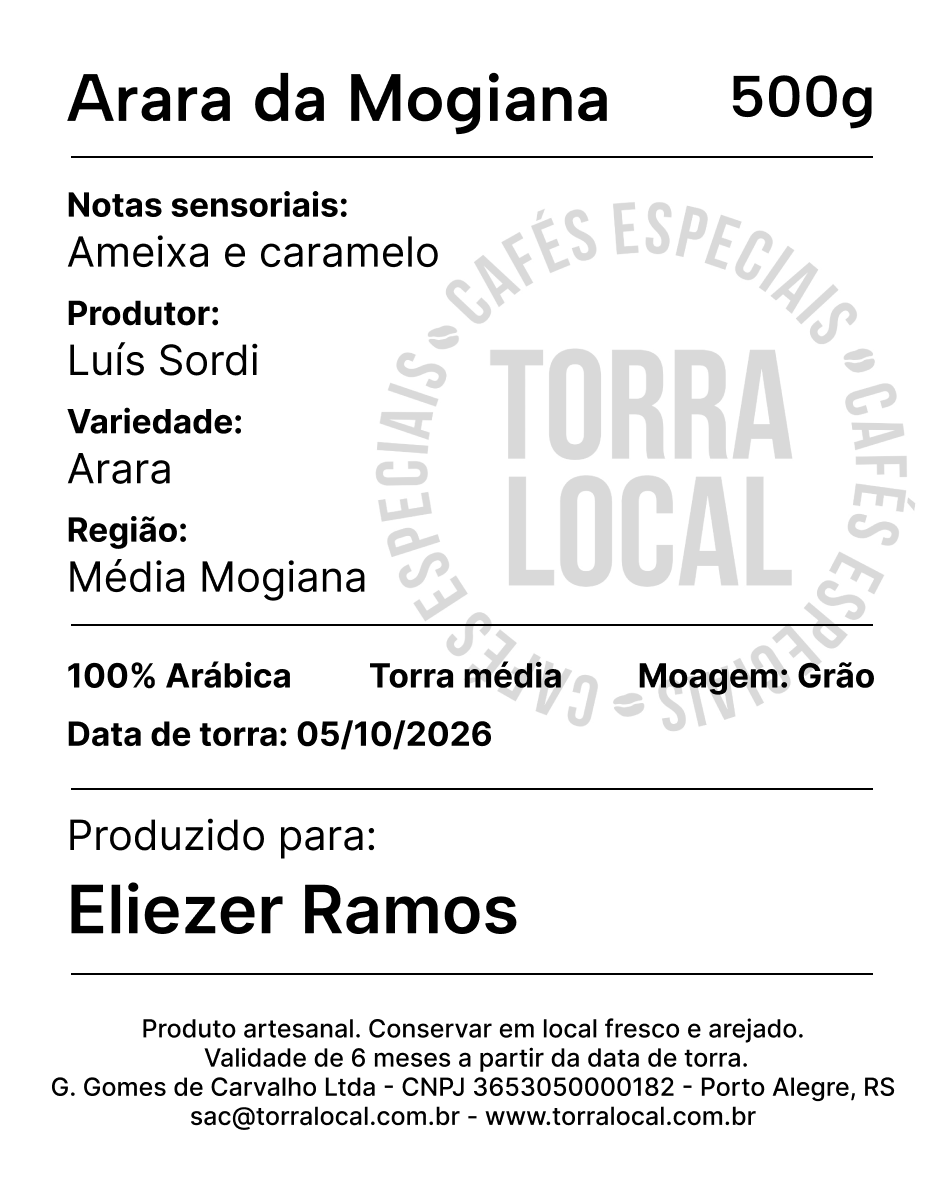
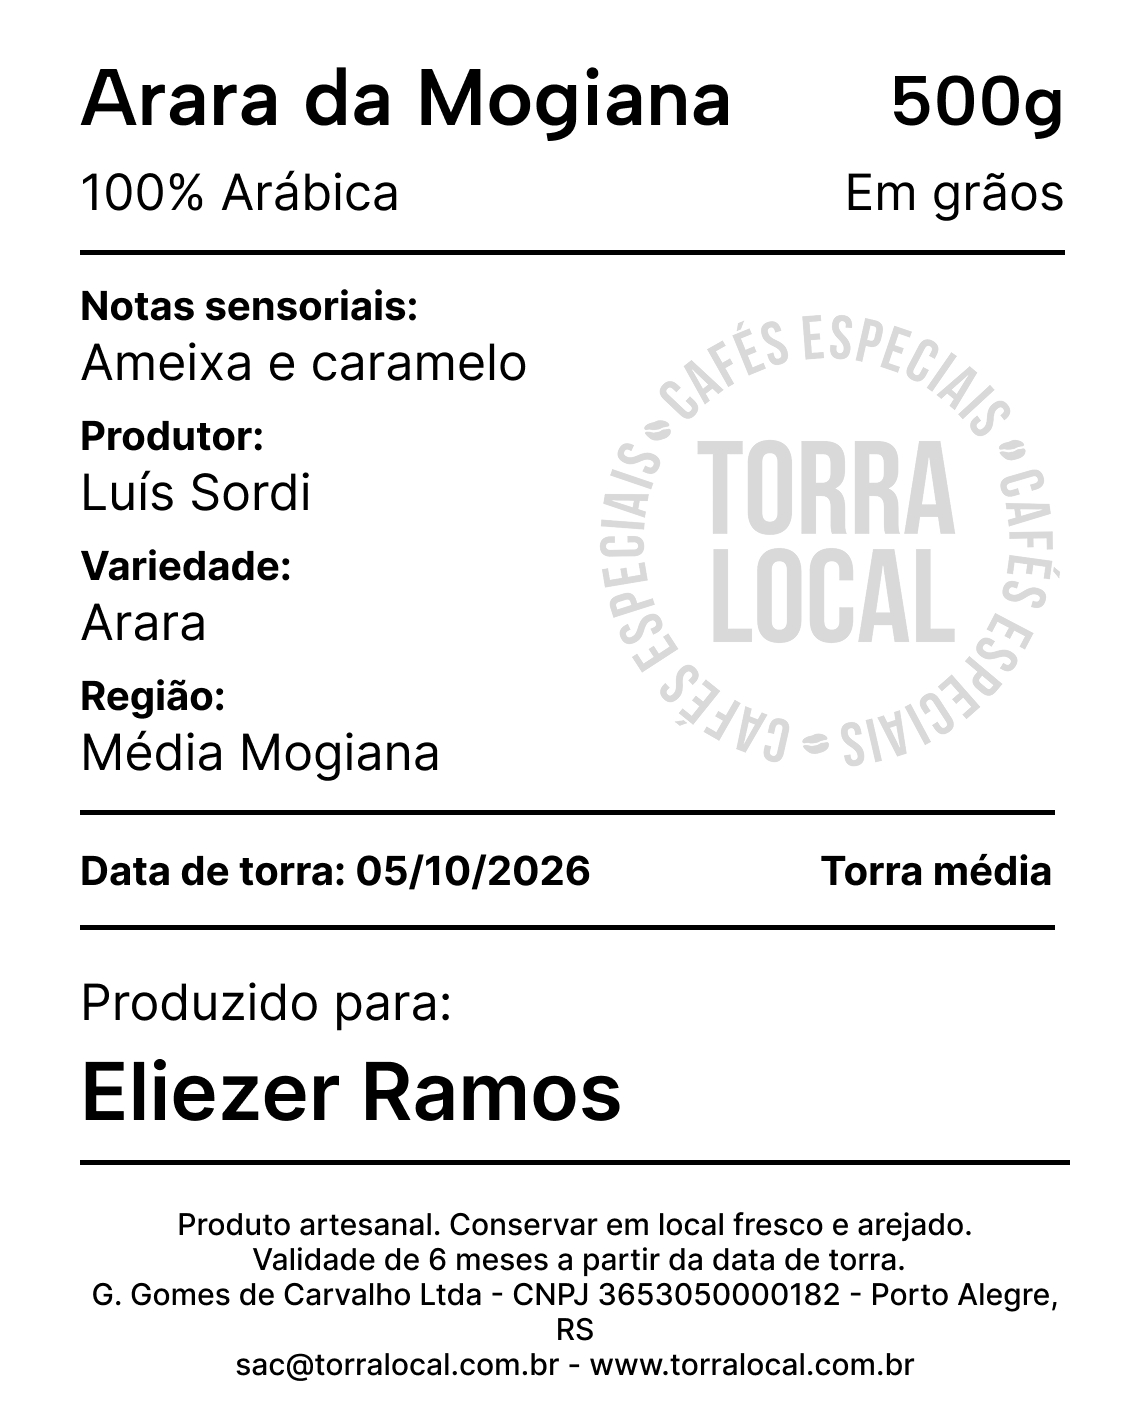
V1: novo design da etiqueta com moagem em destaque (Em grãos/Moído sob o título)
Layout reproduzido do novo modelo; pipeline de imagem (limiar, selo,
dither, 1bpp) inalterado. Selo menor e margens/linhas ajustadas.

Claude-Session: https://claude.ai/code/session_01EfTUypwSbpeeU6PbX6DgcH

diff --git a/src/label/draw.ts b/src/label/draw.ts
@@ -102,17 +102,17 @@ function fitTokens(
 }
 
 // ---------------------------------------------------------------- layout
-// Medidas tiradas do modelo de referência (imagem 945x1181 reduzida para 640x800 pontos, 203 dpi).
+// Medidas tiradas do modelo de referência (docs/modelo-do-rotulo.png, reduzido para 640x800 pontos, 203 dpi).
 
 const LEFT = 46;
-const RIGHT = 591;
+const RIGHT = 598;
 const CW = RIGHT - LEFT;
-const RULE4_Y = 659; // última linha: o rodapé fica fixo abaixo dela
-const RULE_H = 2;
+const RULE4_Y = 655; // última linha: o rodapé fica fixo abaixo dela
+const RULE_H = 3;
 
 // O nome do café (título) e o do cliente têm o mesmo tamanho e o mesmo peso (semibold), como no modelo.
 const NAME_SIZE = 43.8;
-const SIZE = { title: NAME_SIZE, peso: 38.8, label: 22.6, value: 28, row: 22.4, date: 22.9, produzido: 28.1, client: NAME_SIZE, footer: 17.1 };
+const SIZE = { title: NAME_SIZE, peso: 38.8, label: 22.6, value: 28, sub: 28, row: 22.9, produzido: 28.1, client: NAME_SIZE, footer: 17.1 };
 
 const FOOTER_LINES = [
   'Produto artesanal. Conservar em local fresco e arejado.',
@@ -120,7 +120,7 @@ const FOOTER_LINES = [
   'G. Gomes de Carvalho Ltda - CNPJ 36530500000182 - Porto Alegre, RS',
   'sac@torralocal.com.br - www.torralocal.com.br',
 ];
-const FOOTER_BASELINES = [702, 722, 742, 762];
+const FOOTER_BASELINES = [696.5, 716.5, 736.5, 756.5];
 const FOOTER_MAX_W = WIDTH - 2 * 24;
 
 type Op =
@@ -136,23 +136,24 @@ export function moagemNoRotulo(moagem: string): string {
 
 const lineText = (line: Token[]) => line.map((t) => t.text).join(' ');
 
-/** Posições dos itens da linha "espécie / torra / moagem": espaços iguais entre eles, de ponta a ponta. */
-function spreadRow(ctx: Ctx, items: string[], baseline: number): Op[] {
-  if (!items.length) return [];
-  let size = SIZE.row;
-  let widths: number[] = [];
-  for (; size >= 14; size -= 0.5) {
-    ctx.font = font(BOLD, size);
-    widths = items.map((t) => ctx.measureText(t).width);
-    if (items.length === 1 || (CW - widths.reduce((a, b) => a + b, 0)) / (items.length - 1) >= 14) break;
+/**
+ * Dois textos na mesma linha: um colado na margem esquerda e o outro na direita. Se não couberem juntos,
+ * a fonte diminui um pouco. Um texto vazio simplesmente não aparece.
+ */
+function duasPontas(ctx: Ctx, esq: string, dir: string, baseline: number, family: string, size: number): Op[] {
+  const a = esq.trim();
+  const b = dir.trim();
+  let tam = size;
+  if (a && b) {
+    for (; tam >= 14; tam -= 0.5) {
+      ctx.font = font(family, tam);
+      if (ctx.measureText(a).width + ctx.measureText(b).width + 16 <= CW) break;
+    }
   }
-  const gap = items.length > 1 ? (CW - widths.reduce((a, b) => a + b, 0)) / (items.length - 1) : 0;
-  let x = LEFT;
-  return items.map((t, i) => {
-    const op = text(t, BOLD, size, x, baseline);
-    x += widths[i] + gap;
-    return op;
-  });
+  const ops: Op[] = [];
+  if (a) ops.push(text(a, family, tam, LEFT, baseline));
+  if (b) ops.push(text(b, family, tam, RIGHT + 2, baseline, 'right')); // +2: a tinta termina na margem
+  return ops;
 }
 
 /** Calcula onde cada texto e linha vai ficar, com tudo reduzido na escala `s` (1 = tamanho do modelo). */
@@ -164,10 +165,16 @@ function plan(ctx: Ctx, d: DadosRotulo, s: number) {
   ctx.font = font(SEMI, SIZE.peso);
   const pesoW = ctx.measureText(d.peso).width;
   const title = fitTokens(ctx, tokenize([{ text: c.nome, family: SEMI }]), CW - pesoW - 24, SIZE.title, 22, 2, 30);
-  const base1 = 49 + 0.757 * title.size;
+  const base1 = 38 + 0.757 * title.size;
   title.lines.forEach((line, i) => ops.push(text(lineText(line), SEMI, title.size, LEFT, base1 + i * Math.round(title.size * 1.15))));
-  ops.push(text(d.peso, SEMI, SIZE.peso, RIGHT, base1 - 3.3, 'right')); // o peso fica um pouco acima da linha de base do título, como no modelo
-  const rule1 = base1 + (title.lines.length - 1) * Math.round(title.size * 1.15) + 24;
+  ops.push(text(d.peso, SEMI, SIZE.peso, RIGHT + 4, base1 - 3.3, 'right')); // o peso fica um pouco acima da linha de base do título, como no modelo
+  const tituloFim = base1 + (title.lines.length - 1) * Math.round(title.size * 1.15);
+
+  // Espécie (esquerda) e moagem (direita) logo abaixo do título: a moagem fica bem à vista
+  const temSub = c.especie.trim() !== '' || d.moagem.trim() !== '';
+  const subBase = tituloFim + 47.5;
+  ops.push(...duasPontas(ctx, c.especie, moagemNoRotulo(d.moagem), subBase, REG, SIZE.sub));
+  const rule1 = temSub ? subBase + 22.5 : tituloFim + 24;
   ops.push({ t: 'rule', y: rule1 });
 
   // Rótulo em negrito numa linha e valor na linha de baixo
@@ -177,7 +184,7 @@ function plan(ctx: Ctx, d: DadosRotulo, s: number) {
     ['Variedade:', c.variedade],
     ['Região:', c.regiao],
   ];
-  let lb = rule1 + 40.5 * s;
+  let lb = rule1 + 38.4 * s;
   let lastBase = rule1;
   for (const [label, value] of fields) {
     if (!value.trim()) continue;
@@ -193,14 +200,13 @@ function plan(ctx: Ctx, d: DadosRotulo, s: number) {
     }
     lb = lastBase + 38.7 * s;
   }
-  const rule2 = lastBase + 21.6 * s;
+  const rule2 = lastBase + 22.5 * s;
   ops.push({ t: 'rule', y: rule2 });
 
-  const rowBase = rule2 + 43.5 * s;
-  ops.push(...spreadRow(ctx, [c.especie, c.torra, moagemNoRotulo(d.moagem)].filter((t) => t.trim()), rowBase));
-  const dateBase = rowBase + 38.8 * s;
-  ops.push(text(`Data de torra: ${d.dataTorra}`, BOLD, SIZE.date * s, LEFT, dateBase));
-  const upperEnd = dateBase + 29.5 * s; // onde a linha 3 ficaria logo depois da data
+  // Data de torra (esquerda) e nível de torra (direita)
+  const dateBase = rule2 + 43.1 * s;
+  ops.push(...duasPontas(ctx, `Data de torra: ${d.dataTorra}`, c.torra, dateBase, BOLD, SIZE.row * s));
+  const upperEnd = dateBase + 21.8 * s; // onde a linha 3 ficaria logo depois da data
 
   // Bloco "Produzido para": ancorado na última linha, para o rodapé não se mexer
   const client = tokenize([{ text: d.cliente.trim(), family: SEMI }]);
@@ -208,9 +214,9 @@ function plan(ctx: Ctx, d: DadosRotulo, s: number) {
   const clh = Math.round(cfit.size * 1.2);
   const nLines = Math.max(1, cfit.lines.length);
   const clientSpan = 0.757 * cfit.size + (nLines - 1) * clh;
-  const lowerH = 42.1 * s + 22.8 * s + clientSpan + 27 * s;
+  const lowerH = 53.2 * s + 22.8 * s + clientSpan + 23.4 * s;
   const rule3 = RULE4_Y - lowerH;
-  const prodBase = rule3 + 42.1 * s;
+  const prodBase = rule3 + 53.2 * s;
   const lowerOps: Op[] = [{ t: 'rule', y: rule3 }, text('Produzido para:', REG, SIZE.produzido * s, LEFT, prodBase)];
   cfit.lines.forEach((line, i) => lowerOps.push(text(lineText(line), SEMI, cfit.size, LEFT, prodBase + 22.8 * s + 0.757 * cfit.size + i * clh)));
   return { ops: [...ops, ...lowerOps], overflow: upperEnd - rule3 };
@@ -229,21 +235,21 @@ function drawContent(ctx: Ctx, d: DadosRotulo): void {
   }
   for (const op of p.ops) {
     if (op.t === 'rule') {
-      ctx.fillRect(LEFT + 2, Math.round(op.y), CW - 2, RULE_H);
+      ctx.fillRect(LEFT, Math.round(op.y), CW, RULE_H);
     } else {
       ctx.font = font(op.family, op.size);
       ctx.textAlign = op.align;
       ctx.fillText(op.text, op.x, op.y);
     }
   }
-  ctx.fillRect(LEFT + 2, RULE4_Y, CW - 2, RULE_H);
+  ctx.fillRect(LEFT, RULE4_Y, CW, RULE_H);
 
   // Rodapé fixo
   ctx.textAlign = 'center';
   FOOTER_LINES.forEach((line, i) => {
     const { size } = fitTokens(ctx, [{ text: line, family: REG }], FOOTER_MAX_W, SIZE.footer, 11, 1);
     ctx.font = font(REG, size);
-    ctx.fillText(line, WIDTH / 2, FOOTER_BASELINES[i]);
+    ctx.fillText(line, (LEFT + RIGHT) / 2, FOOTER_BASELINES[i]);
   });
   ctx.textAlign = 'left';
 }
@@ -252,9 +258,9 @@ function drawContent(ctx: Ctx, d: DadosRotulo): void {
 
 const SEAL_DENSITY = 0.2; // fração de pontos pretos no fundo (cinza claro pontilhado)
 const DITHER_NOISE = 0.35; // ruído no limiar da difusão de erro (quebra padrões regulares)
-const SEAL_DIAMETER = 370;
-const SEAL_CX = 437;
-const SEAL_CY = 316;
+const SEAL_DIAMETER = 263;
+const SEAL_CX = 468;
+const SEAL_CY = 305;
 const INK_THRESHOLD = 170; // cinza abaixo do qual o ponto vira preto (mais alto = traço um pouco mais grosso)
 const HALO = 3; // área em branco ao redor do texto para o selo não atrapalhar a leitura
 

diff --git a/index.html b/index.html
@@ -439,41 +439,39 @@ label > span small { display: inline; margin-left: 4px; }
     return { size, lines };
   }
   var LEFT = 46;
-  var RIGHT = 591;
+  var RIGHT = 598;
   var CW = RIGHT - LEFT;
-  var RULE4_Y = 659;
-  var RULE_H = 2;
+  var RULE4_Y = 655;
+  var RULE_H = 3;
   var NAME_SIZE = 43.8;
-  var SIZE = { title: NAME_SIZE, peso: 38.8, label: 22.6, value: 28, row: 22.4, date: 22.9, produzido: 28.1, client: NAME_SIZE, footer: 17.1 };
+  var SIZE = { title: NAME_SIZE, peso: 38.8, label: 22.6, value: 28, sub: 28, row: 22.9, produzido: 28.1, client: NAME_SIZE, footer: 17.1 };
   var FOOTER_LINES = [
     "Produto artesanal. Conservar em local fresco e arejado.",
     "Validade de 6 meses a partir da data de torra.",
     "G. Gomes de Carvalho Ltda - CNPJ 36530500000182 - Porto Alegre, RS",
     "sac@torralocal.com.br - www.torralocal.com.br"
   ];
-  var FOOTER_BASELINES = [702, 722, 742, 762];
+  var FOOTER_BASELINES = [696.5, 716.5, 736.5, 756.5];
   var FOOTER_MAX_W = WIDTH - 2 * 24;
   var text = (text2, family, size, x, y, align = "left") => ({ t: "text", text: text2, family, size, x, y, align });
   function moagemNoRotulo(moagem) {
     return moagem === "Gr\xE3o" ? "Em gr\xE3os" : moagem;
   }
   var lineText = (line) => line.map((t) => t.text).join(" ");
-  function spreadRow(ctx, items, baseline) {
-    if (!items.length) return [];
-    let size = SIZE.row;
-    let widths = [];
-    for (; size >= 14; size -= 0.5) {
-      ctx.font = font(BOLD, size);
-      widths = items.map((t) => ctx.measureText(t).width);
-      if (items.length === 1 || (CW - widths.reduce((a, b) => a + b, 0)) / (items.length - 1) >= 14) break;
+  function duasPontas(ctx, esq, dir, baseline, family, size) {
+    const a = esq.trim();
+    const b = dir.trim();
+    let tam = size;
+    if (a && b) {
+      for (; tam >= 14; tam -= 0.5) {
+        ctx.font = font(family, tam);
+        if (ctx.measureText(a).width + ctx.measureText(b).width + 16 <= CW) break;
+      }
     }
-    const gap = items.length > 1 ? (CW - widths.reduce((a, b) => a + b, 0)) / (items.length - 1) : 0;
-    let x = LEFT;
-    return items.map((t, i) => {
-      const op = text(t, BOLD, size, x, baseline);
-      x += widths[i] + gap;
-      return op;
-    });
+    const ops = [];
+    if (a) ops.push(text(a, family, tam, LEFT, baseline));
+    if (b) ops.push(text(b, family, tam, RIGHT + 2, baseline, "right"));
+    return ops;
   }
   function plan(ctx, d, s) {
     const ops = [];
@@ -481,10 +479,14 @@ label > span small { display: inline; margin-left: 4px; }
     ctx.font = font(SEMI, SIZE.peso);
     const pesoW = ctx.measureText(d.peso).width;
     const title = fitTokens(ctx, tokenize([{ text: c.nome, family: SEMI }]), CW - pesoW - 24, SIZE.title, 22, 2, 30);
-    const base1 = 49 + 0.757 * title.size;
+    const base1 = 38 + 0.757 * title.size;
     title.lines.forEach((line, i) => ops.push(text(lineText(line), SEMI, title.size, LEFT, base1 + i * Math.round(title.size * 1.15))));
-    ops.push(text(d.peso, SEMI, SIZE.peso, RIGHT, base1 - 3.3, "right"));
-    const rule1 = base1 + (title.lines.length - 1) * Math.round(title.size * 1.15) + 24;
+    ops.push(text(d.peso, SEMI, SIZE.peso, RIGHT + 4, base1 - 3.3, "right"));
+    const tituloFim = base1 + (title.lines.length - 1) * Math.round(title.size * 1.15);
+    const temSub = c.especie.trim() !== "" || d.moagem.trim() !== "";
+    const subBase = tituloFim + 47.5;
+    ops.push(...duasPontas(ctx, c.especie, moagemNoRotulo(d.moagem), subBase, REG, SIZE.sub));
+    const rule1 = temSub ? subBase + 22.5 : tituloFim + 24;
     ops.push({ t: "rule", y: rule1 });
     const fields = [
       ["Notas sensoriais:", c.notas],
@@ -492,7 +494,7 @@ label > span small { display: inline; margin-left: 4px; }
       ["Variedade:", c.variedade],
       ["Regi\xE3o:", c.regiao]
     ];
-    let lb = rule1 + 40.5 * s;
+    let lb = rule1 + 38.4 * s;
     let lastBase = rule1;
     for (const [label, value] of fields) {
       if (!value.trim()) continue;
@@ -508,21 +510,19 @@ label > span small { display: inline; margin-left: 4px; }
       }
       lb = lastBase + 38.7 * s;
     }
-    const rule2 = lastBase + 21.6 * s;
+    const rule2 = lastBase + 22.5 * s;
     ops.push({ t: "rule", y: rule2 });
-    const rowBase = rule2 + 43.5 * s;
-    ops.push(...spreadRow(ctx, [c.especie, c.torra, moagemNoRotulo(d.moagem)].filter((t) => t.trim()), rowBase));
-    const dateBase = rowBase + 38.8 * s;
-    ops.push(text(`Data de torra: ${d.dataTorra}`, BOLD, SIZE.date * s, LEFT, dateBase));
-    const upperEnd = dateBase + 29.5 * s;
+    const dateBase = rule2 + 43.1 * s;
+    ops.push(...duasPontas(ctx, `Data de torra: ${d.dataTorra}`, c.torra, dateBase, BOLD, SIZE.row * s));
+    const upperEnd = dateBase + 21.8 * s;
     const client = tokenize([{ text: d.cliente.trim(), family: SEMI }]);
     const cfit = client.length ? fitTokens(ctx, client, CW, SIZE.client, 20, 2, 30) : { size: SIZE.client, lines: [] };
     const clh = Math.round(cfit.size * 1.2);
     const nLines = Math.max(1, cfit.lines.length);
     const clientSpan = 0.757 * cfit.size + (nLines - 1) * clh;
-    const lowerH = 42.1 * s + 22.8 * s + clientSpan + 27 * s;
+    const lowerH = 53.2 * s + 22.8 * s + clientSpan + 23.4 * s;
     const rule3 = RULE4_Y - lowerH;
-    const prodBase = rule3 + 42.1 * s;
+    const prodBase = rule3 + 53.2 * s;
     const lowerOps = [{ t: "rule", y: rule3 }, text("Produzido para:", REG, SIZE.produzido * s, LEFT, prodBase)];
     cfit.lines.forEach((line, i) => lowerOps.push(text(lineText(line), SEMI, cfit.size, LEFT, prodBase + 22.8 * s + 0.757 * cfit.size + i * clh)));
     return { ops: [...ops, ...lowerOps], overflow: upperEnd - rule3 };
@@ -538,27 +538,27 @@ label > span small { display: inline; margin-left: 4px; }
     }
     for (const op of p.ops) {
       if (op.t === "rule") {
-        ctx.fillRect(LEFT + 2, Math.round(op.y), CW - 2, RULE_H);
+        ctx.fillRect(LEFT, Math.round(op.y), CW, RULE_H);
       } else {
         ctx.font = font(op.family, op.size);
         ctx.textAlign = op.align;
         ctx.fillText(op.text, op.x, op.y);
       }
     }
-    ctx.fillRect(LEFT + 2, RULE4_Y, CW - 2, RULE_H);
+    ctx.fillRect(LEFT, RULE4_Y, CW, RULE_H);
     ctx.textAlign = "center";
     FOOTER_LINES.forEach((line, i) => {
       const { size } = fitTokens(ctx, [{ text: line, family: REG }], FOOTER_MAX_W, SIZE.footer, 11, 1);
       ctx.font = font(REG, size);
-      ctx.fillText(line, WIDTH / 2, FOOTER_BASELINES[i]);
+      ctx.fillText(line, (LEFT + RIGHT) / 2, FOOTER_BASELINES[i]);
     });
     ctx.textAlign = "left";
   }
   var SEAL_DENSITY = 0.2;
   var DITHER_NOISE = 0.35;
-  var SEAL_DIAMETER = 370;
-  var SEAL_CX = 437;
-  var SEAL_CY = 316;
+  var SEAL_DIAMETER = 263;
+  var SEAL_CX = 468;
+  var SEAL_CY = 305;
   var INK_THRESHOLD = 170;
   var HALO = 3;
   function mulberry32(seed) {
